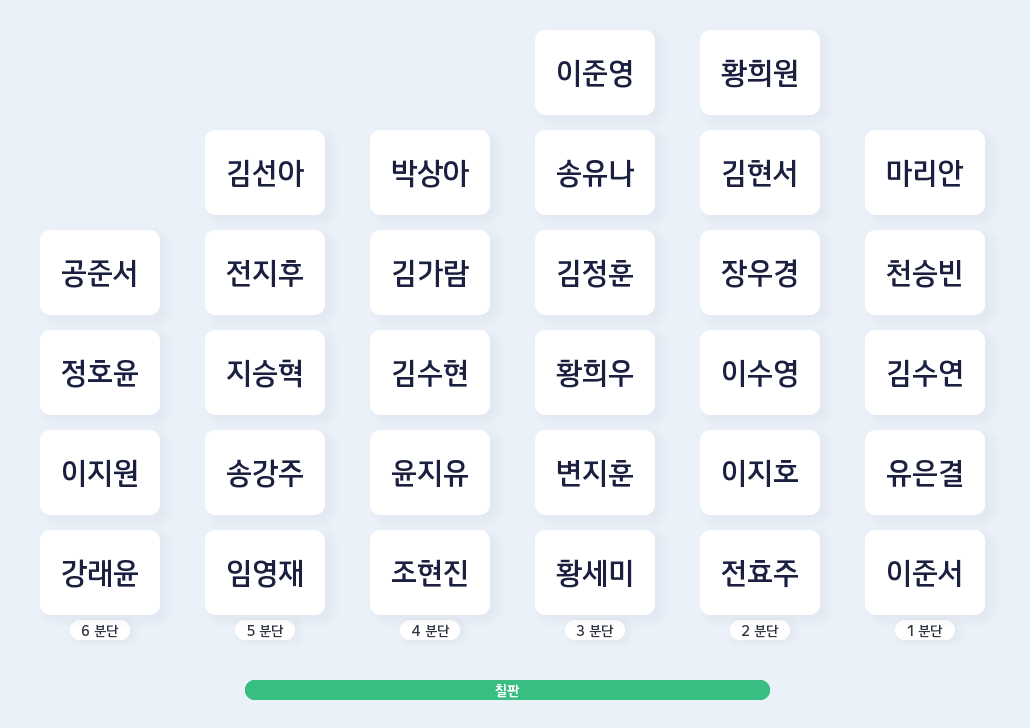
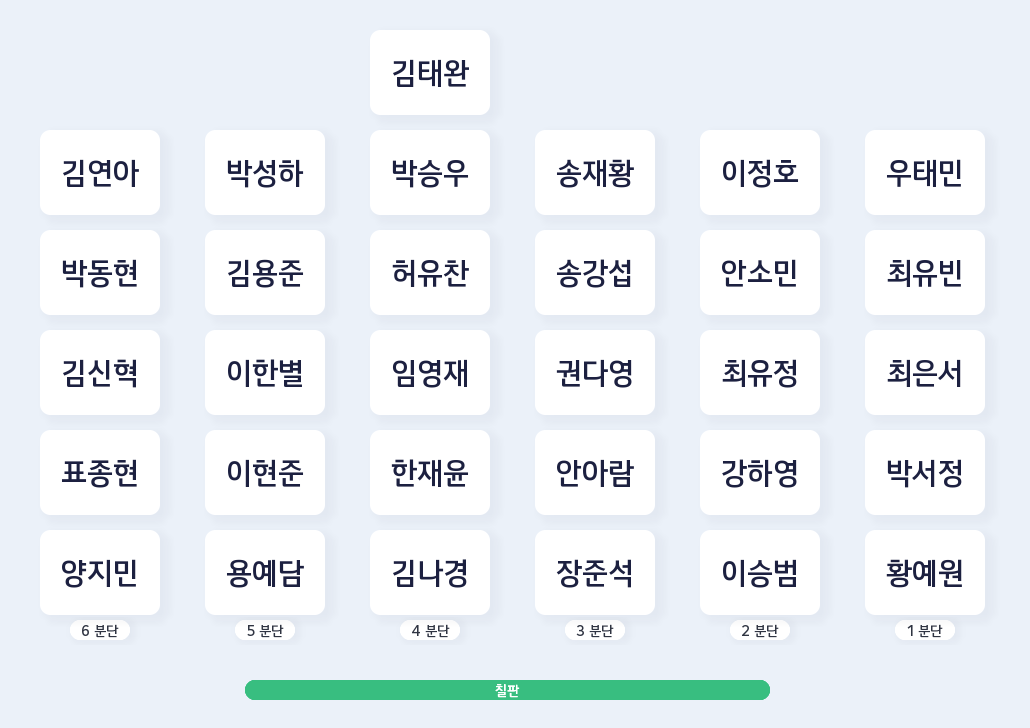
v1.0.0
change design
added separation

diff --git a/main.py b/main.py
@@ -9,30 +9,47 @@ pygame.init()
 
 global group_list
 
-window = pygame.display.set_mode((1440,800))
+window = pygame.display.set_mode((1030,865))
 save = (1030,int(1030*210/297))
 pygame.display.set_caption("자리 바꾸기")
 pygame.display.set_icon(pygame.image.load('.\\data\\icon.jpg'))
 ui_list = []
 
-group_seat_count = [5,6,6,5,5,4]
+group_seat_count = [5,5,5,6,5,5]
 seat_surf = pygame.Surface((len(group_seat_count)+2,max(group_seat_count)+2))
 for x in range(len(group_seat_count)):
     for y in range(group_seat_count[x]):
         seat_surf.set_at((len(group_seat_count)-x,max(group_seat_count)-y),(255,255,255))
 seats = [[[] for n in range(x_count)] for x_count in group_seat_count]
+# print(seats)
 Position = []
 students = eval(open('.\\data\\students','r',encoding='utf-8').read())
 Decided = eval(open('.\\data\\group.json','r',encoding='utf-8').read())
-random.shuffle(Decided)
+define = eval(open('.\\data\\define.json','r',encoding='utf-8').read())
+seperate = eval(open('.\\data\\seperate.json','r',encoding='utf-8').read())
+thing = pygame.mixer.Sound(".\\data\\thing.mp3")
+# print(len(students))
 Distributed = {}
 for i, team in enumerate(Decided):
     for name in team:
         Distributed[name] = i
+
+# print(Distributed)
+# print(Decided)
 global group_
 group_ = {}
 
+class color:
+    white = (255, 255, 255)
+    black = (0, 0, 0)
+    red = (255, 9, 9)
 
+class textures:
+    dusts = [
+        pygame.transform.scale(pygame.image.load(f".\\textures\\dust0{n+1}.png"), (64, 64)) for n in range(7)
+    ]
+
+entities = 0
 
 def font(fontname, size):
     return pygame.font.Font(f"C:\\Windows\\Fonts\\{fontname}.TTF",size)
@@ -48,6 +65,10 @@ lastleft2 = 0
 lastright2 = 0
 lastright1 = 0
 lastmiddle1 = 0
+
+def distance(pos1:tuple, pos2:tuple) -> tuple:
+    return ((pos1[0]-pos2[0])**2 + (pos1[1]-pos2[1])**2 )**0.5
+
 class mouse:
     def middlebtdown():
         global lastmiddle1
@@ -102,10 +123,13 @@ class seat:
         global Position
         Position = []
         for i in range(len(Decided)):
-            x = random.randint(1,len(group_seat_count))
-            y = random.randint(1,group_seat_count[x-1])
+            if str(i) not in define:
+                x = random.randint(1,len(group_seat_count))
+                y = random.randint(1,group_seat_count[x-1])
 
-            Position.append((x-1,y-1))
+                Position.append((x-1,y-1))
+            else:
+                Position.append(eval(random.choice(define[str(i)])))
     
     def do():
         seat.PlantSeed()
@@ -134,6 +158,7 @@ class seat:
             else:
                 x = random.randint(-1,1)
                 y = random.randint(-1,1)
+
                 new_seat = (pos[0]+x,pos[1]+y)
                 n = 0
 
@@ -141,10 +166,9 @@ class seat:
                     n += 1
                     x = random.randint(-1,1)
                     y = random.randint(-1,1)
-                    new_seat = (pos[0]+x,pos[1]+y)\
+                    new_seat = (pos[0]+x,pos[1]+y)
 
                 if (n >= 30):
-                    seat.do()
                     break
 
 
@@ -153,12 +177,15 @@ class seat:
 
         for student in seat.student:
             if (student not in combined):
+
                 new_seat = random.sample(seat_num,1)[0]
                 seat_num.remove(new_seat)
                 result[student] = new_seat
 
         group_ = result
         seat.dum = seat.student
+        if (len(result) < len(seat.student)):
+            seat.do()
 
     def RunOne():
         if (len(seat.dum) > 0):
@@ -166,17 +193,31 @@ class seat:
             seat.dum.remove(student)
 
             pos = group_[student]
-            group_list[pos[0]].seats[pos[1]].set_text(student)
+            obj = group_list[pos[0]].seats[pos[1]]
+            obj.set_text(student)
+            
+            ParticleHub((int(obj.x + obj.sx/2), int(obj.y + obj.sy/2)))
+            # pygame.mixer.Sound.play(thing)
 
     def RunAll():
+        seat.do()
         global group_
         
-        n = 0
+        loc = {}
         for student in group_:
-            n +=1
-            pos = group_[student]
-            group_list[pos[0]].seats[pos[1]].set_text(student)
 
+            pos = group_[student]
+            loc[student] = pos
+            obj = group_list[pos[0]].seats[pos[1]]
+            obj.set_text(student)
+            ParticleHub((int(obj.x + obj.sx/2), int(obj.y + obj.sy/2)))
+        
+        # check valid
+        valid = True
+        for group in seperate:
+            if distance(loc.get(group[0]), loc.get(group[1])) <= group[2]: valid = False
+        if not valid: seat.RunAll()
+        
 class System:
     clock = pygame.time.Clock()
     bugged_icon = pygame.image.load(f'.\\data\\icon\\bug.png')
@@ -451,58 +492,17 @@ class System:
                 pass
             def draw(self,mx,my):
                 pass
-        class numberinput:
-            def __init__(self,surface:pygame.Surface, x,y,sx,sy,backgroundcolor,font,basetext="input box",textcolor=(255,255,255),glow=(255,255,255),warn=(255,30,30),text=""):
-                ui_list.append(self)
-                self.x=x
-                self.y = y
-                self.sx=sx
-                self.sy = sy
-                self.bgc = backgroundcolor
-                self.font = font
-                self.basetext = basetext
-                self.text = text
-                self.textcolor = textcolor
-                self.glow = glow
-                self.enabled = False
-                self.canwrite = True
-                self.warn = warn
-
-                self.hitbox = pygame.Surface(surface.get_size())
-                pygame.draw.rect(self.hitbox,(255,255,255),(x,y,sx,sy))
-            def draw(self, mx,my):
-                pressed = keyboard[0]
-
-                if (self.hitbox.get_at((mx,my)) == (255,255,255) and mouse.leftbtup() == True):
-                    self.enabled = True
-                elif(self.hitbox.get_at((mx,my)) != (255,255,255) and mouse.leftbtup() == True):
-                    self.enabled = False
-
-                pygame.draw.rect(window,self.bgc,[self.x,self.y,self.sx,self.sy])
-                textsize = System.draw.gettsize(self.text,self.font)
-                if (self.text != ""): System.draw.text(self.text,self.font,window,self.x+int(self.sx/2),self.y+int(self.sy/2),"center",self.textcolor)
-                else: System.draw.text(self.basetext,self.font,window,self.x+int(self.sx/2),self.y+int(self.sy/2),"center",self.textcolor)
-                if (self.enabled == True): pygame.draw.rect(window,self.glow,[self.x,self.y,self.sx,self.sy],1)
-                if (textsize[0] > self.sx-(self.sy-textsize[1])):
-                    self.canwrite = False
-                    pygame.draw.rect(window,self.warn,[self.x,self.y,self.sx,self.sy],1)
-                else: self.canwrite = True
-
-                for key in pressed:
-                    if (key == "backspace"):
-                        self.text = self.text[0:-1]
-                    elif (str(key).isnumeric() == True and textsize[0] < self.sx-(self.sy-textsize[1])):
-                        self.text += key
 
     def display():
         window.fill((235, 241, 249))
 
         for ui in ui_list: 
             ui.draw(mx,my)
-        
+        for particle in ParticleHub.entities:
+            particle.draw()
 
-        System.draw.rrect(window,[1055,25,360,200],(235, 241, 249),0.1)
-        window.blit(pygame.transform.scale(seat_surf,(seat_surf.get_size()[0]*3,seat_surf.get_size()[1]*3)),(1070,40))
+        # System.draw.rrect(window,[1055,25,360,200],(235, 241, 249),0.1)
+        # window.blit(pygame.transform.scale(seat_surf,(seat_surf.get_size()[0]*3,seat_surf.get_size()[1]*3)),(1070,40))
 
     def event(events):
         for event in events:
@@ -510,18 +510,65 @@ class System:
                 pygame.quit()
                 sys.exit()
 
+class ParticleHub:
+    entities = []
 
+    class SubParticle:
+        def __init__(self, pos:tuple[int, int], speed:tuple[int, int]) -> None:
+            self.pos = list(pos)
+            self.speed = list(speed)
+            self.scale = random.randint(0, 6)
+            self.texture :pygame.Surface = textures.dusts[self.scale]
+            # self.texture.set_alpha(100)
+
+            return
+
+
+        def draw(self):
+            if ((fps := System.clock.get_fps()) > 0):
+                self.speed[1] += 9.8/fps*50
+
+                self.pos[0] += self.speed[0]/fps
+                self.pos[1] += self.speed[1]/fps
+
+
+            window.blit(self.texture, (self.pos[0]-32, self.pos[1]-32))
+
+    def __init__(self, pos:tuple[int, int]) -> None:
+        global entities
+        self.pos = pos
+        self.duration = 2.5
+        self.summon = time.time()
+        self.sub = []
+        self.count = random.randint(2, 5)
+
+        ParticleHub.entities.append(self)
+        for i in range(self.count): self.sub.append(ParticleHub.SubParticle(self.pos, (random.randrange(-150, 150), random.randrange(-200, 30))))
+        entities += self.count
+        pass
+
+    def draw(self):
+        global entities
+        for particle in self.sub:
+            particle.draw()
+
+        if (time.time() - self.summon >= self.duration):
+            ParticleHub.entities.pop(ParticleHub.entities.index(self))
+            entities -= self.count
+        
+        # pygame.draw.circle(window, color.red, self.pos, 3, 1)
 
 #test_button = System.ui.button(window,100,100,25,25,round=True,edge_thick=1,opacity=255,icon=System.icon('plus'))
+
 group_list = []
 for i in range(6):group_list.append(System.ui.group(window,f"{i+1} 분단",i+1,group_seat_count[i])) # 분단
-chalkboard = System.ui.button(window,245,730,525,20,color=(56,190,128),edge_thick=0,round=True,roundness=1,text="칠판",text_color=(255,255,255),edge_color=(56,190,128), addshadow=False,clickable=False)
-setting_panel = System.ui.button(window,1030,-50,450,800,color=(255,255,255),edge_thick=0,round=True,roundness=0.1,clickable=False,CustomCorrectionX=-75,CustomCorrectionY=-150)
-AtOnce = System.ui.button(window,1055,235,140,30,color=(56,190,128),edge_thick=0,text="한 번에 뽑기",text_color=(255,255,255),round=True,roundness=0.5,showline=False,tag="AtOnce")
-OnlyOne = System.ui.button(window,1205,235,140,30,color=(56,190,128),edge_thick=0,text="하나 뽑기",text_color=(255,255,255),round=True,roundness=0.5,showline=False,tag="OnlyOne")
-Reset = System.ui.button(window,1355,235,60,30,color=(253, 76, 54),edge_thick=0,text="초기화",text_color=(255,255,255),round=True,roundness=0.4,showline=False,tag="Reset")
-PNGSave = System.ui.button(window,1055,275,175,30,color=(255,185,34),edge_thick=0,text="PNG로 저장",text_color=(255,255,255),round=True,roundness=0.4,showline=False,tag="SavePNG")
-PDFSave = System.ui.button(window,1240,275,175,30,color=(255,185,34),edge_thick=0,text="PDF로 저장",text_color=(255,255,255),round=True,roundness=0.4,showline=False,tag="SavePDF")
+chalkboard = System.ui.button(window,365,730,300,20,color=(56,190,128),edge_thick=0,round=True,roundness=1,text="칠판",text_color=(255,255,255),edge_color=(56,190,128), addshadow=False,clickable=False)
+setting_panel = System.ui.button(window,320,770,390,200,color=(255,255,255),edge_thick=0,round=True,roundness=0.1,clickable=False,CustomCorrectionX=-70, CustomCorrectionY=-35)
+AtOnce = System.ui.button(window,1055-720,785,140,30,color=(56,190,128),edge_thick=0,text="한 번에 뽑기",text_color=(255,255,255),round=True,roundness=0.5,showline=False,tag="AtOnce")
+OnlyOne = System.ui.button(window,1205-720,785,140,30,color=(56,190,128),edge_thick=0,text="하나 뽑기",text_color=(255,255,255),round=True,roundness=0.5,showline=False,tag="OnlyOne")
+Reset = System.ui.button(window,1355-720,785,60,30,color=(253, 76, 54),edge_thick=0,text="초기화",text_color=(255,255,255),round=True,roundness=0.4,showline=False,tag="Reset")
+PNGSave = System.ui.button(window,1055-720,825,175,30,color=(255,185,34),edge_thick=0,text="PNG로 저장",text_color=(255,255,255),round=True,roundness=0.4,showline=False,tag="SavePNG")
+PDFSave = System.ui.button(window,1240-720,825,175,30,color=(255,185,34),edge_thick=0,text="PDF로 저장",text_color=(255,255,255),round=True,roundness=0.4,showline=False,tag="SavePDF")
 
 
 seat.do()
@@ -536,4 +583,4 @@ while True:
         
     pygame.display.update()
 
-    System.clock.tick(30)
+    System.clock.tick(144)

diff --git a/dum.py b/dum.py
@@ -1,0 +1,2 @@
+a = "강하영 권다영 김나경 강신혁 김연아 김용준 김윤아 김태완 박동현 박서정 박상하 박승우 박하은 송강섭 송재황 안소민 안아람 양지민 요예담 우태민 이경민 이승범 이아영 이정호 이한별 이현준 임영재 장준석 최유정 최은서 표종현 한재윤 허유찬 황예언".split(" ")
+open(".\\data\\students", 'w', encoding='utf8').write(str(a))

diff --git a/gicon_keyboard.py b/gicon_keyboard.py
@@ -1,6 +1,4 @@
-import ctypes
-from win32api import GetKeyState
-import win32api, time,os
+import win32api, time
 
 VK_CODE = {8: 'backspace',
  9: 'tab',
